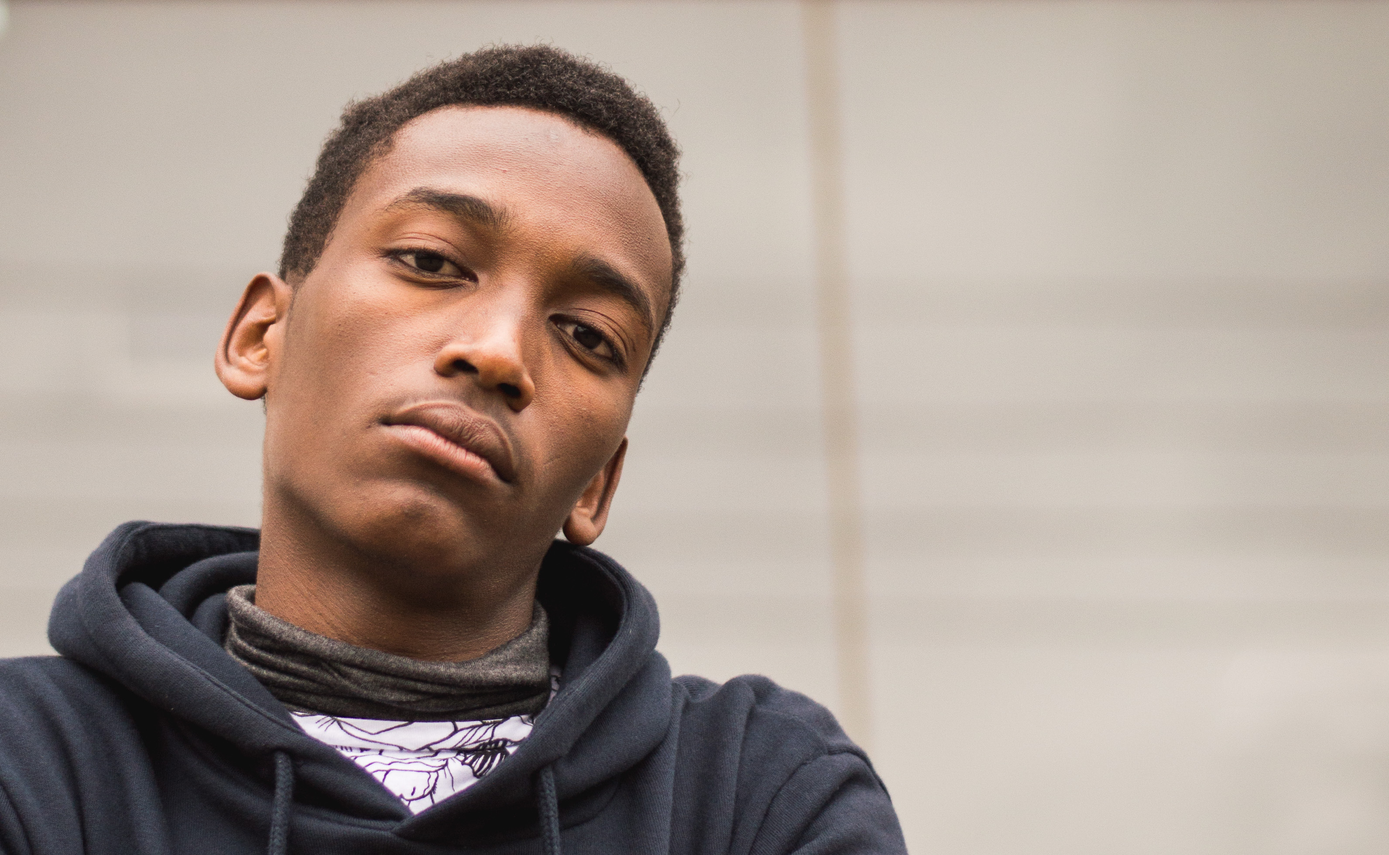
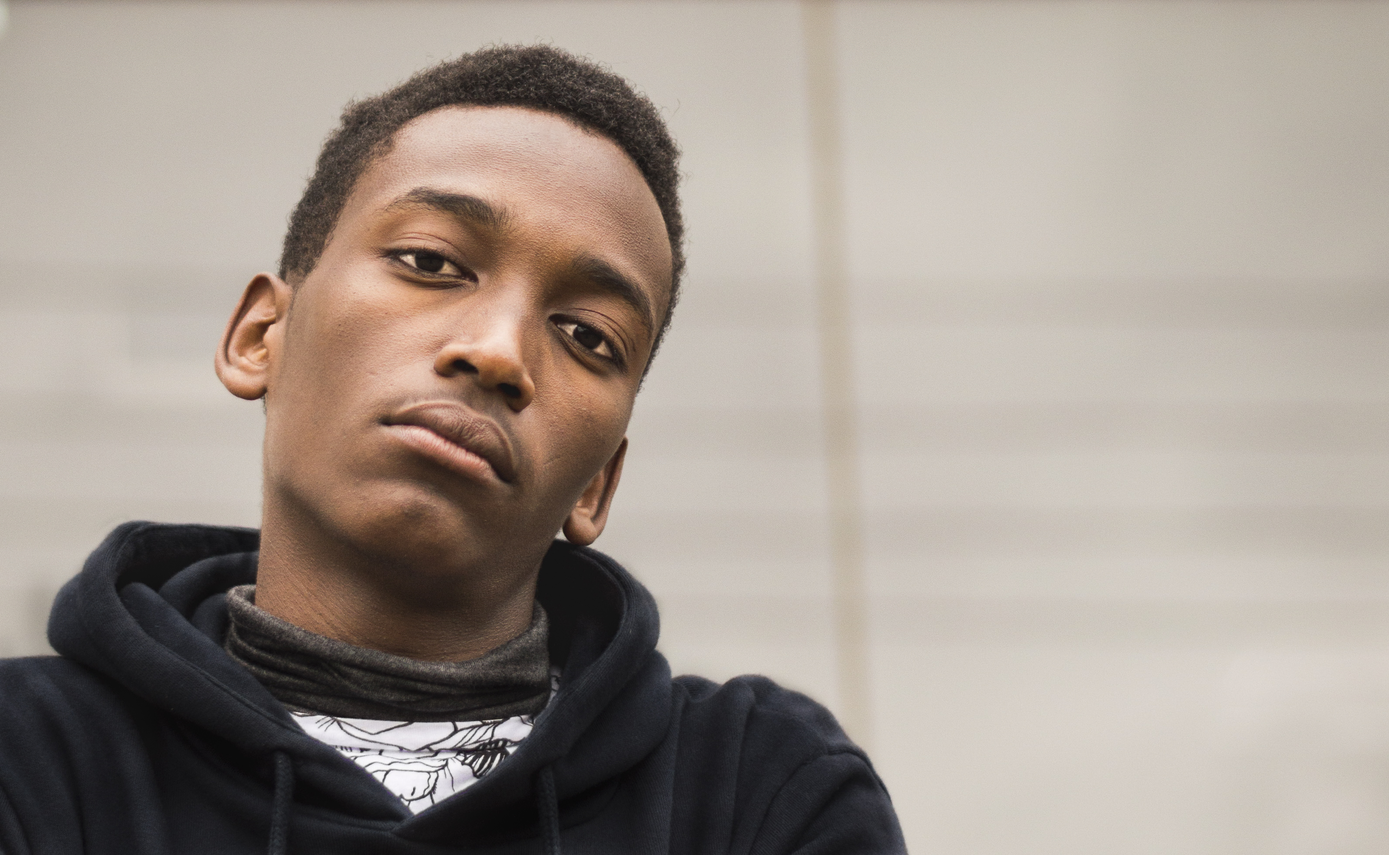
- Modifications to index stylesheet improving cober photos for both large and mobile displays

Changed region(s): [[0.0, 0.6224, 0.6532, 1.0], [0.4043, 0.3735, 0.4354, 0.4046], [0.311, 0.3112, 0.3421, 0.3423]]

diff --git a/portfolio/static/css/styles.css b/portfolio/static/css/styles.css
@@ -126,14 +126,20 @@ body{
     }
     
     .container1{
-        background-size: 100vh;
-        padding: 40vh 0 20vh 0;
+        background-size: 90vh;
+        background-image: url('../images/version2.JPG');
+        padding: 50vh 0 40vh 0;
         font-size: 3vw;
         opacity: 1;
         color: whitesmoke;
     }
 
-    .container1 h1, p{
+    .container1 h1{
+        opacity: 1;
+        padding-top: 25vh;
+    }
+
+    .container1 p{
         opacity: 1;
     }
 
